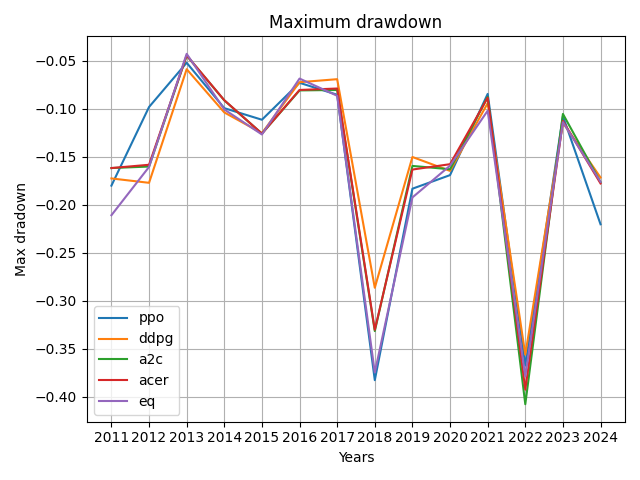
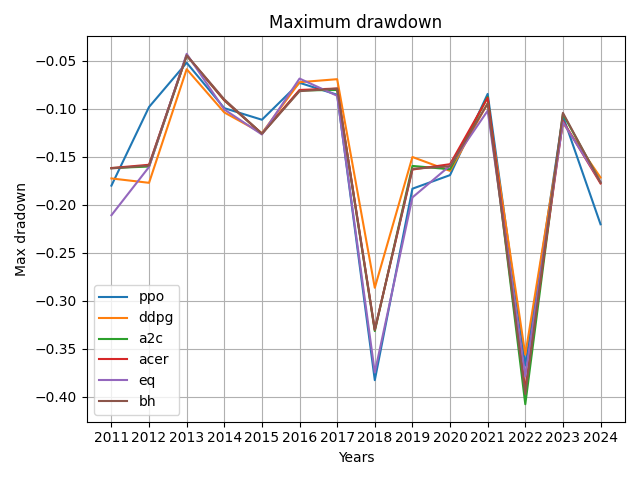
added buy and hold

diff --git a/compare_results.py b/compare_results.py
@@ -13,6 +13,7 @@ ddpg_daily_vals_sets = 'DDPG_test_results/portfolio_vals.pkl'
 a2c_daily_vals_sets = 'A2C_test_results/portfolio_vals.pkl'
 acer_daily_vals_sets = 'ACER_test_results/portfolio_vals.pkl'
 EQ_daily_vals_sets = 'EQ_test_results/portfolio_vals.pkl'
+BH_daily_vals_sets = 'BH_test_results/portfolio_vals.pkl'
 
 comparison_graphs_path = 'comparison_graphs' # dir to save graphs
 os.makedirs(comparison_graphs_path, exist_ok=True)
@@ -33,7 +34,8 @@ data_dict = {
     'ddpg_val_sets':open_file(ddpg_daily_vals_sets),
     'a2c_val_sets':open_file(a2c_daily_vals_sets),
     'acer_val_sets':open_file(acer_daily_vals_sets),
-    'eq_val_sets':open_file(EQ_daily_vals_sets)
+    'eq_val_sets':open_file(EQ_daily_vals_sets),
+    'bh_val_sets':open_file(BH_daily_vals_sets)
 }
 
 
